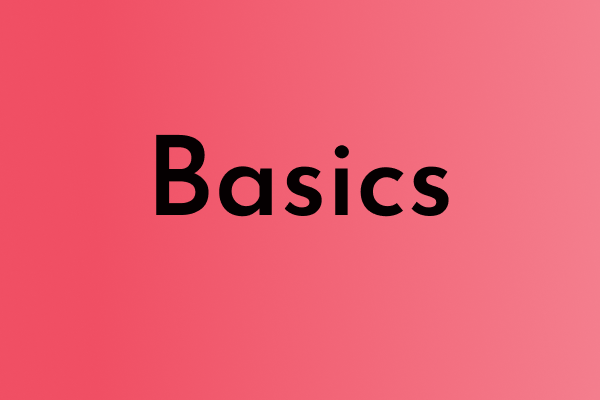
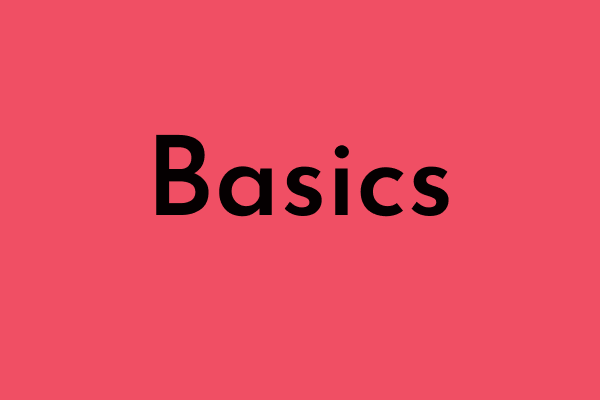
changed the project name and adjusted styling of the header and nav links

diff --git a/src/App.vue b/src/App.vue
@@ -1,24 +1,42 @@
 <template>
   <div id="app">
-    <div id="nav">
-      <router-link to="/">Home</router-link>|
-      <router-link to="/basics">Basics</router-link>|
-      <router-link to="/functions">Functions</router-link>
+    <div class="flex items-center justify-end py-6 pr-4 font-sans text-xl nav">
+      <router-link class="px-4 mr-auto text-4xl font-raleway home" to="/">JS Flashcards</router-link>
+      <router-link
+        class="px-4 border-r border-gray-900 border-solid basics hover:text-basicred"
+        to="/basics"
+      >Basics</router-link>
+      <router-link class="px-4 hover:text-fnorange functions" to="/functions">Functions</router-link>
     </div>
     <router-view id="router-view" />
   </div>
 </template>
 
-<style>
+<style >
 #app {
   font-family: "Avenir", Helvetica, Arial, sans-serif;
   -webkit-font-smoothing: antialiased;
   -moz-osx-font-smoothing: grayscale;
   text-align: center;
-  color: #2c3e50;
 }
 
-#nav {
+.nav a.basics.router-link-active {
+  color: hsl(355.2, 84.3%, 62.5%);
+}
+.nav a.functions.router-link-active {
+  color: hsl(22.2, 84.3%, 62.5%);
+}
+
+.nav a.home.router-link-exact-active {
+  text-decoration: underline;
+  text-decoration-color: #f0db4f;
+}
+
+.home:hover {
+  text-decoration: underline;
+  text-decoration-color: #f0db4f;
+}
+/* #nav {
   padding: 30px;
   background-color: #f5f5f5;
 }
@@ -30,5 +48,5 @@
 
 #nav a.router-link-exact-active {
   color: #42b983;
-}
+} */
 </style>

diff --git a/src/components/FunctionsCards.vue b/src/components/FunctionsCards.vue
@@ -1,5 +1,5 @@
 <template>
-  <div class="py-40">
+  <div class="py-12">
     <div class="mx-auto w-7/8 sm:w-10/12 md:w-11/12 md:px-12">
       <div class="flex flex-wrap justify-center">
         <!--  -->
@@ -241,7 +241,7 @@
                       <ul class="list-disc">
                         <li>inputs that a function can accept and then perform tasks with</li>
                         <li>they are placeholders for information that will be passed in when the function is called</li>
-                        <li>parameters names are created when defining a function</li>
+                        <li>parameter names are created when defining a function</li>
                         <li>multiple parameters must be separated by a comma</li>
                       </ul>
                     </div>

diff --git a/tailwind.config.js b/tailwind.config.js
@@ -34,7 +34,8 @@ module.exports = {
         "108": "27rem"
       },
       fontFamily: {
-        cardface: ["Josefin Sans", "Sans-serif"]
+        cardface: ["Josefin Sans", "Sans-serif"],
+        raleway: ["Raleway", "Sans-serif"]
       },
       cursor: {
         alias: "alias"
@@ -45,7 +46,8 @@ module.exports = {
         basiclight: "hsl(355.2, 84.3%, 95%)",
         fnorange: "hsl(22.2, 84.3%, 62.5%)",
         fndark: "hsl(22.2, 84.3%, 20%)",
-        fnlight: "hsl(22.2, 84.3%, 95%)"
+        fnlight: "hsl(22.2, 84.3%, 95%)",
+        minion: "#f0db4f"
       }
     }
   },

diff --git a/src/views/Functions.vue b/src/views/Functions.vue
@@ -1,13 +1,11 @@
 <template>
-  <div class="min-h-screen page-background">
+  <div class="min-h-screen bg-fnorange">
     <functions-cards></functions-cards>
   </div>
 </template>
 
 <script>
-//import AppCard from "../components/AppCard";
 import FunctionsCards from "../components/FunctionsCards";
-//import HoverCard from "../components/HoverCard";
 
 export default {
   components: {
@@ -16,7 +14,4 @@ export default {
 };
 </script>
 <style scoped>
-.page-background {
-  background-color: hsl(22.2, 84.3%, 62.5%);
-}
 </style>

diff --git a/src/assets/css/main.css b/src/assets/css/main.css
@@ -1,5 +1,7 @@
 @import url('https://fonts.googleapis.com/css?family=Josefin+Sans:300,400,600,700&display=swap');
 
+@import url('https://fonts.googleapis.com/css?family=Raleway:200,300,400&display=swap');
+
 @tailwind base;
 @tailwind components;
 @tailwind utilities;

diff --git a/src/components/SectionCards.vue b/src/components/SectionCards.vue
@@ -1,5 +1,5 @@
 <template>
-  <div class="px-4 py-32 mx-auto w-7/8 sm:w-10/12 md:w-11/12 md:px-12">
+  <div class="px-4 py-12 mx-auto w-7/8 sm:w-10/12 md:w-11/12 md:px-12">
     <div class="flex flex-wrap -mx-1 lg:-mx-4">
       <!--  -->
 

diff --git a/src/components/BasicsCards.vue b/src/components/BasicsCards.vue
@@ -1,5 +1,5 @@
 <template>
-  <div class="py-40">
+  <div class="py-12">
     <div class="mx-auto w-7/8 sm:w-10/12 md:w-11/12 md:px-12">
       <div class="flex flex-wrap justify-center">
         <!--  -->

diff --git a/src/views/Home.vue b/src/views/Home.vue
@@ -1,5 +1,5 @@
 <template>
-  <div class="home">
+  <div class="min-h-screen home">
     <section-cards></section-cards>
   </div>
 </template>

diff --git a/README.md b/README.md
@@ -1,4 +1,4 @@
-# 003-js-review
+# JS Flashcards
 
 ## Project setup
 ```
